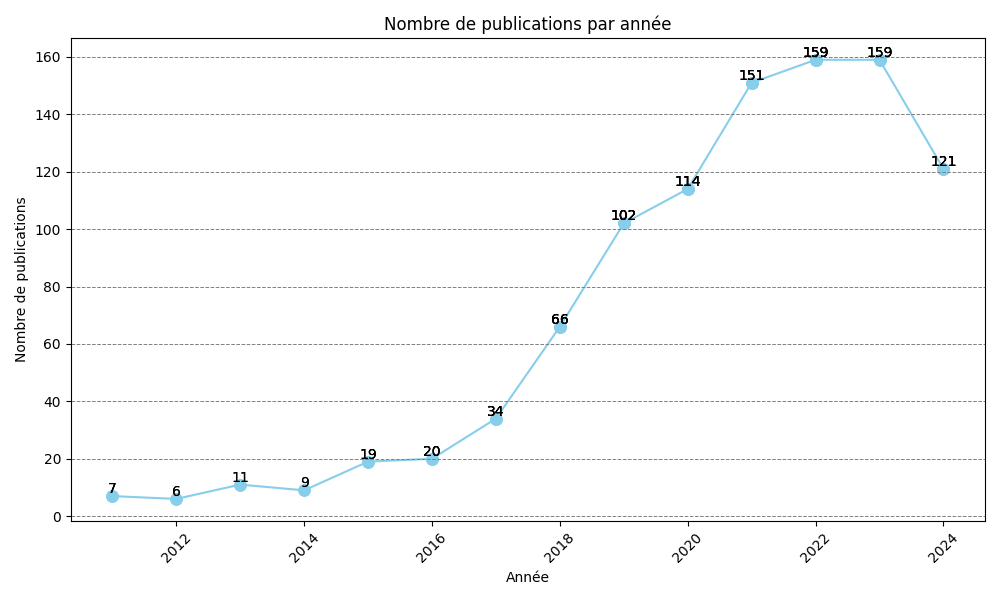
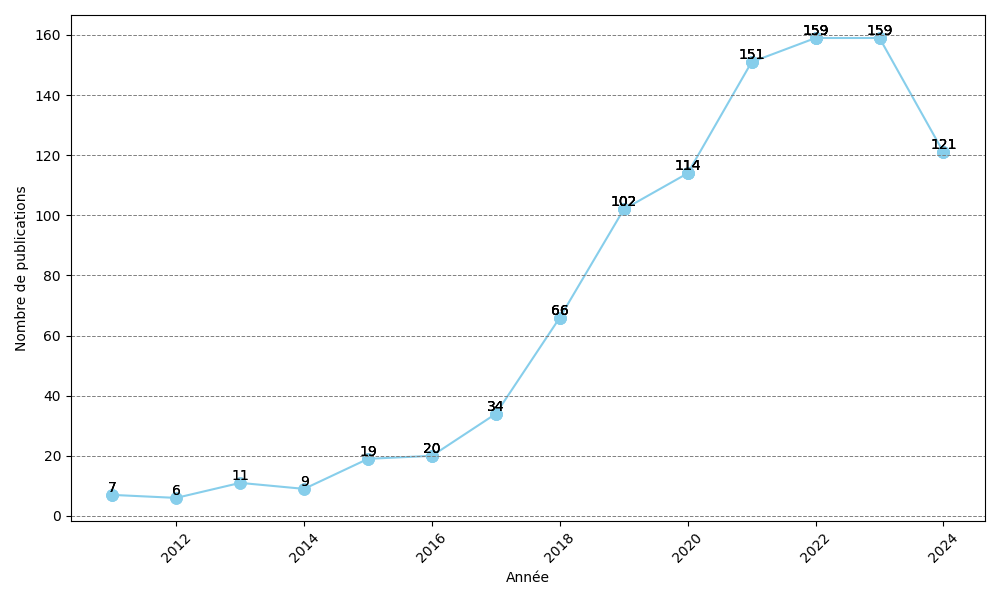
update

diff --git a/graph.py b/graph.py
@@ -29,7 +29,7 @@ for y in range(0, max(counts) + 20, 20):
 # Ajouter des labels et un titre
 plt.xlabel('Année')
 plt.ylabel('Nombre de publications')
-plt.title('Nombre de publications par année')
+
 plt.xticks(rotation=45)
 plt.tight_layout()
 
